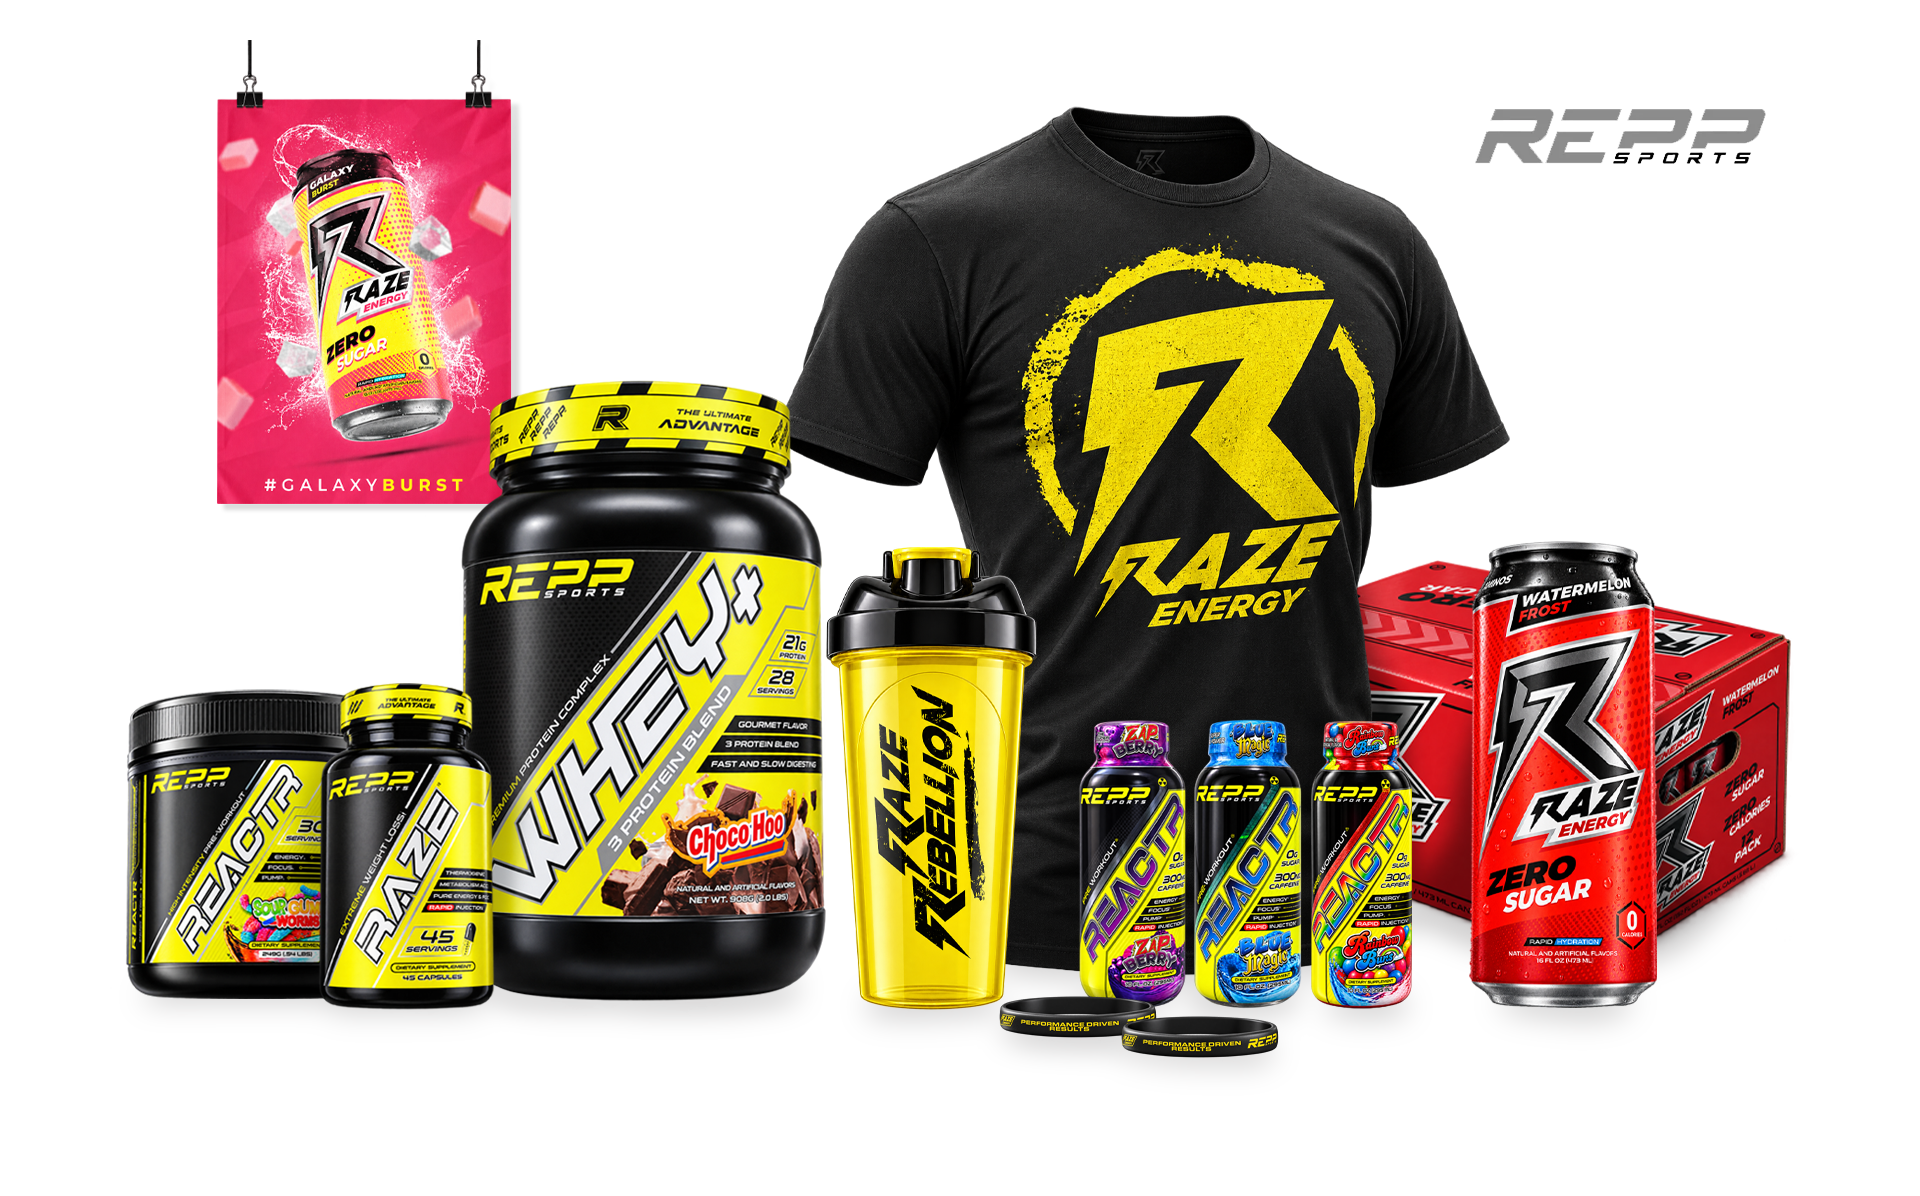
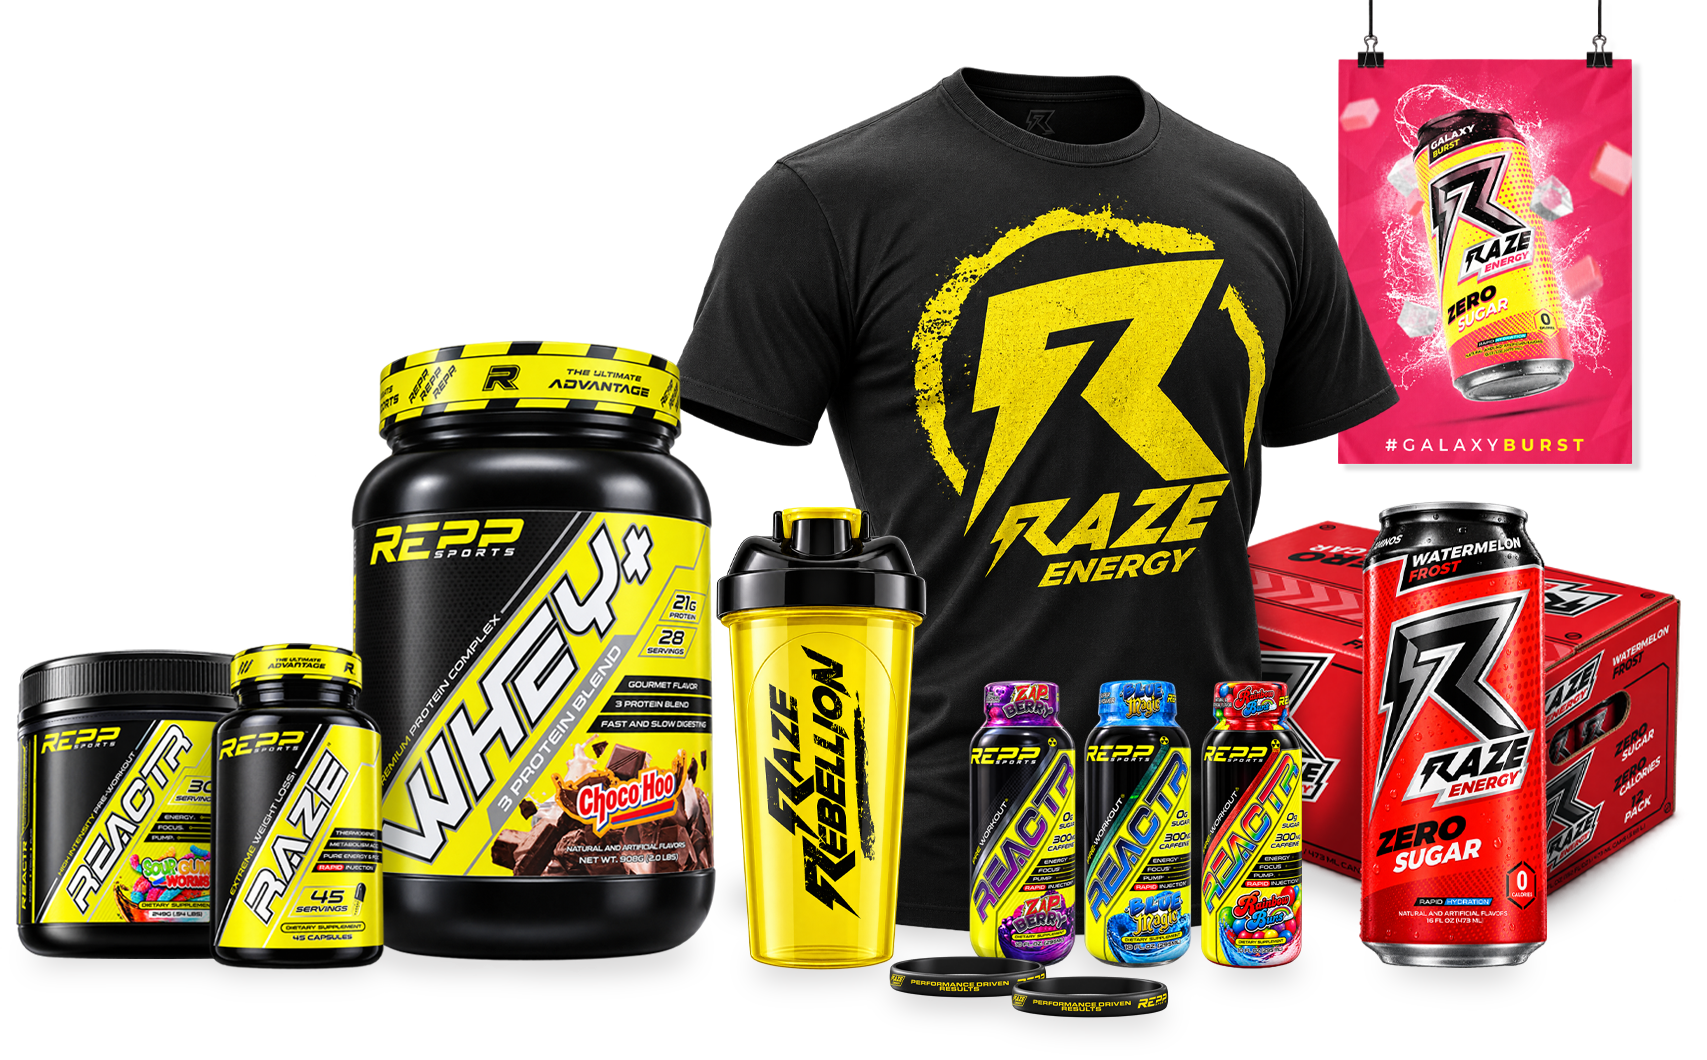
Repp Sports: real copy, per-can fade-in reveal, replace stack image, mobile/tablet crop fix
- real title/body copy, replacing the placeholder text
- the four Raze Energy cans are now separate elements instead of a flat
  composite, so each can fade in on its own (scripts/can-reveal.js):
  right to left (watermelon first, galaxy last), starting 1.5s after the
  panel scrolls into view; watermelon still crops at the panel edge same
  as the PSD
- second panel's product-lineup image replaced with the new stack shot
- mobile/tablet: same treatment as NutraKey - four cans lay out as a real
  row instead of stacking in a column, and the second panel's image covers
  a fixed aspect-ratio (tighter on phone than tablet) instead of showing
  full natural aspect with gap around it

diff --git a/web/index.html b/web/index.html
@@ -337,30 +337,45 @@
     </div>
   </section>
 
+  <!-- The four cans are separate elements (not a flat composite) so each
+       can fade in on its own — see scripts/can-reveal.js. Left-to-right
+       order matches the PSD (galaxy, sour, guava, watermelon); watermelon
+       sits partly past the panel's right edge and is clipped by
+       .panel__inner's own overflow:clip, same as the PSD's crop. -->
   <section class="panel panel--project" id="repp-sports"
            style="--ar:0.563021" aria-label="Repp Sports">
     <div class="panel__inner">
-      <img class="pj-bg" src="assets/img/work/repp-a.webp"
-         alt="Repp Sports supplement packaging"
-         width="1920" height="1081" loading="lazy" decoding="async">
       <div class="stage" style="--stage-h:1081">
         <p class="pj-num"   style="--x:112; --y:172.4">02</p>
         <h2 class="pj-title" style="--y:677">Repp Sports</h2>
-        <!-- TODO(artboard-5): copy is not final; holding the layout. -->
         <div class="pj-bio" style="--y:741; --w:506">
-          <p>I’m aarondotjpeg, a multidisciplinary creative working across graphic design, branding, art direction, illustration, and digital experiences. I move between disciplines freely, using whatever medium best brings an idea to life.</p>
-          <p>Born in New York and now based in Florida, my creative path has taken me across the country, shaped by different people, places, and experiences along the way. Drawing, photography, and design have always been interconnected parts of how I create, eventually growing into a broader practice that includes branding, digital experiences, and creative direction.</p>
+          <p>As Lead Creative Director and Marketing Manager at REPP Sports, I worked across branding, packaging, web, and marketing for a growing lineup of sports nutrition and performance products.</p>
+          <p>I developed branding and packaging for more than 35 products, including the first seven Raze Energy SKUs, while also creating websites, campaigns, photography, video, and social content that helped build the brands around them.</p>
+        </div>
+        <div class="pj-cans">
+          <img class="pj-can" data-can-order="4" style="--x:725; --y:138; --w:331; --h:844"
+               src="assets/img/work/repp-can-galaxy.webp" alt="Raze Energy, Galaxy Burst"
+               width="331" height="844" loading="lazy" decoding="async">
+          <img class="pj-can" data-can-order="3" style="--x:1073; --y:138; --w:331; --h:844"
+               src="assets/img/work/repp-can-sour.webp" alt="Raze Energy, Sour Gummy Worms"
+               width="331" height="844" loading="lazy" decoding="async">
+          <img class="pj-can" data-can-order="2" style="--x:1421; --y:138; --w:331; --h:844"
+               src="assets/img/work/repp-can-guava.webp" alt="Raze Energy, Guava Mango"
+               width="331" height="844" loading="lazy" decoding="async">
+          <img class="pj-can" data-can-order="1" style="--x:1769; --y:138; --w:331; --h:844"
+               src="assets/img/work/repp-can-watermelon.webp" alt="Raze Energy, Watermelon Frost"
+               width="331" height="844" loading="lazy" decoding="async">
         </div>
       </div>
     </div>
   </section>
 
   <section class="panel panel--project" id="repp-sports-work"
-           style="--ar:0.622917" aria-label="Repp Sports, continued">
+           style="--ar:0.620973" aria-label="Repp Sports, continued">
     <div class="panel__inner">
       <img class="pj-bg" src="assets/img/work/repp-b.webp"
-         alt="Repp Sports product range"
-         width="1920" height="1196" loading="lazy" decoding="async">
+         alt="Repp Sports product range — REACTR, RAZE, Whey+, apparel and Raze Energy 12-pack"
+         width="1707" height="1060" loading="lazy" decoding="async">
     </div>
   </section>
 
@@ -481,5 +496,6 @@
 <script src="scripts/typewriter.js"></script>
 <script src="scripts/marquee.js"></script>
 <script src="scripts/parallax.js"></script>
+<script src="scripts/can-reveal.js"></script>
 </body>
 </html>

diff --git a/web/styles/project.css b/web/styles/project.css
@@ -74,6 +74,41 @@
     height: auto;
   }
 
+  /* .pj-cans exists only so mobile/tablet can lay the four cans out as a
+     real row (see the media query below) — on desktop it must be invisible
+     to the box tree so each .pj-can keeps positioning against .stage
+     directly, same reasoning as About's .ab-contact/.ab-exp. */
+  .pj-cans {
+    display: contents;
+  }
+
+  /* .pj-can — Repp Sports' four cans, positioned like any other .stage
+     element. Each starts hidden and fades in on its own once the panel is
+     in view — see scripts/can-reveal.js. Starting a few px lower and
+     settling into place reads as a soft rise, not just an opacity fade. */
+  .pj-can {
+    position: absolute;
+    left: calc(var(--x) * var(--u));
+    top:  calc(var(--y) * var(--u));
+    width:  calc(var(--w) * var(--u));
+    height: calc(var(--h) * var(--u));
+    opacity: 0;
+    transform: translateY(calc(16 * var(--u)));
+    transition: opacity var(--dur-slow, 600ms) var(--ease-out),
+                transform var(--dur-slow, 600ms) var(--ease-out);
+  }
+  .pj-can[data-revealed] {
+    opacity: 1;
+    transform: translateY(0);
+  }
+  @media (prefers-reduced-motion: reduce) {
+    .pj-can {
+      opacity: 1;
+      transform: none;
+      transition: none;
+    }
+  }
+
   .pj-num,
   .pj-title,
   .pj-bio {
@@ -249,6 +284,37 @@
       transform: none !important;
     }
 
+    /* Repp Sports' four cans: the desktop absolute-positioned row doesn't
+       fit a stacked mobile layout, so .pj-cans becomes a real (wrapping)
+       row of its own instead of four separate column items — same
+       left-to-right order, just centered and sized to the viewport
+       instead of the 1920 canvas. The reveal animation itself (see
+       scripts/can-reveal.js) still runs unchanged; only position/size are
+       overridden here. */
+    .panel--project .pj-cans {
+      order: 1;
+      display: flex;
+      flex-wrap: wrap;
+      justify-content: center;
+      gap: clamp(8px, 3vw, 20px);
+      width: 100%;
+    }
+    .panel--project .pj-can {
+      position: static;
+      width: calc(25% - 15px);
+      height: auto;
+    }
+
+    /* Repp Sports' second panel is the same "one full-bleed image, no
+       text" shape as NutraKey's — same fix: cover a fixed aspect-ratio
+       instead of showing the full natural aspect with whatever gap that
+       leaves around it, tighter again on phones than tablets. */
+    #repp-sports-work .pj-bg {
+      height: auto;
+      aspect-ratio: 3 / 2;
+      object-fit: cover;
+    }
+
     .panel--project .stage {
       height: auto;
       display: flex;
@@ -312,6 +378,7 @@
 
   /* Phone only: crop in further than the tablet aspect-ratio above. */
   @media (max-width: 767px) {
-    #nutrakey-work .pj-bg { aspect-ratio: 4 / 3; }
+    #nutrakey-work .pj-bg,
+    #repp-sports-work .pj-bg { aspect-ratio: 4 / 3; }
   }
 }

diff --git a/web/scripts/can-reveal.js b/web/scripts/can-reveal.js
@@ -1,0 +1,51 @@
+/* ===========================================================================
+   REPP SPORTS CAN REVEAL
+   The four cans fade in right to left (watermelon first, galaxy last —
+   data-can-order counts down from the rightmost can) once the panel
+   scrolls into view, after a 1.5s pause. Runs once; the observer
+   disconnects after the first reveal so it doesn't refire on repeat
+   scrolls past the panel.
+   =========================================================================== */
+(function () {
+  'use strict';
+
+  var panel = document.getElementById('repp-sports');
+  if (!panel) return;
+
+  var cans = Array.prototype.slice.call(panel.querySelectorAll('.pj-can'));
+  if (!cans.length) return;
+
+  var reduce = window.matchMedia('(prefers-reduced-motion: reduce)').matches;
+  if (reduce) return; // CSS already shows them fully visible, nothing to do
+
+  cans.sort(function (a, b) {
+    return Number(a.dataset.canOrder) - Number(b.dataset.canOrder);
+  });
+
+  var START_DELAY_MS = 1500;
+  var STAGGER_MS = 180;
+
+  function reveal() {
+    cans.forEach(function (can, i) {
+      setTimeout(function () {
+        can.setAttribute('data-revealed', '');
+      }, START_DELAY_MS + i * STAGGER_MS);
+    });
+  }
+
+  if (!('IntersectionObserver' in window)) {
+    reveal();
+    return;
+  }
+
+  var io = new IntersectionObserver(function (entries) {
+    entries.forEach(function (entry) {
+      if (entry.isIntersecting) {
+        reveal();
+        io.disconnect();
+      }
+    });
+  }, { threshold: 0.15 });
+
+  io.observe(panel);
+})();
